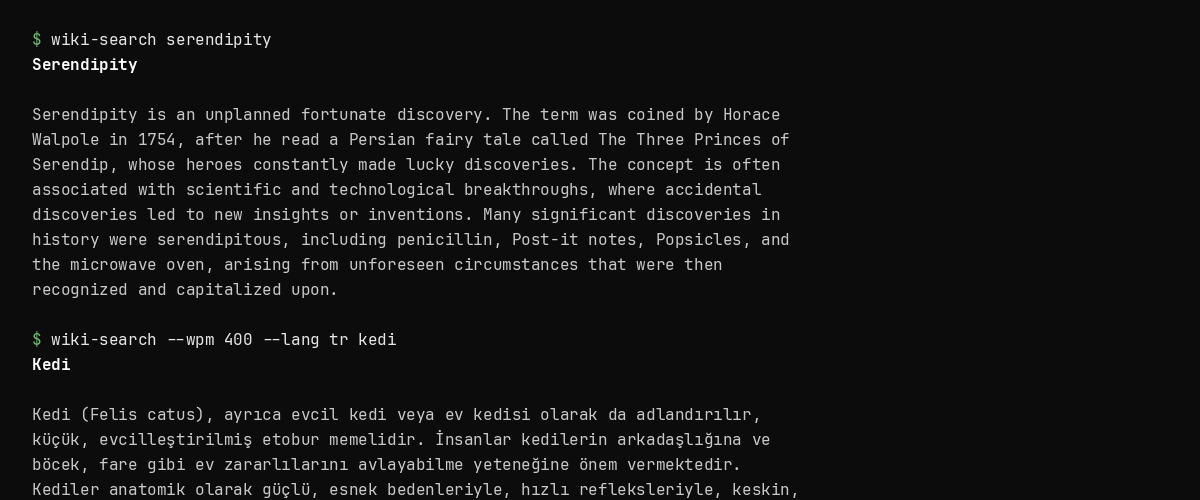
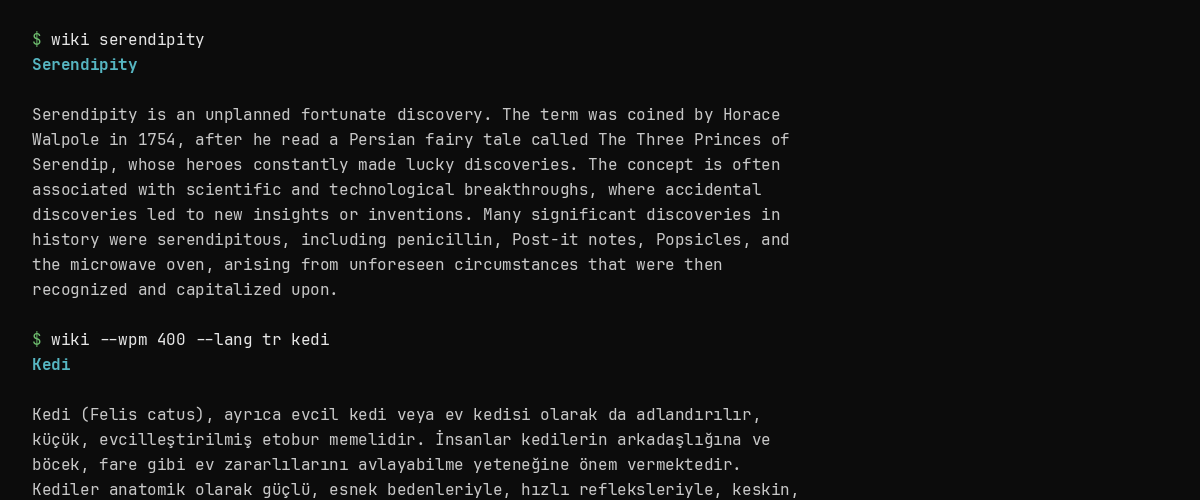
Rename project to wiki

diff --git a/src/sources.rs b/src/sources.rs
@@ -10,9 +10,9 @@ use serde_json::Value;
 
 const MAX_RESPONSE_BYTES: u64 = 16 * 1024 * 1024;
 const USER_AGENT: &str = concat!(
-    "wiki-search/",
+    "wiki/",
     env!("CARGO_PKG_VERSION"),
-    " (https://github.com/batusaribay/wiki-search)"
+    " (https://github.com/batusaribay/wiki)"
 );
 const ITSFOSS_HOME: &str = "https://itsfoss.com/";
 const WIKIHOW_SEARCH: &str = "https://www.wikihow.com/wikiHowTo?search=";
@@ -320,8 +320,8 @@ fn browser_html(url: &str) -> Result<String, String> {
         "wikiHow needs Chromium or Chrome installed (a headless browser gets past the site's bot check)",
     )?;
 
-    let profile = std::env::temp_dir().join(format!("wiki-search-chrome-{}", std::process::id()));
-    let output = std::env::temp_dir().join(format!("wiki-search-page-{}.html", std::process::id()));
+    let profile = std::env::temp_dir().join(format!("wiki-chrome-{}", std::process::id()));
+    let output = std::env::temp_dir().join(format!("wiki-page-{}.html", std::process::id()));
     let _ = fs::remove_dir_all(&profile);
 
     let file =

diff --git a/src/main.rs b/src/main.rs
@@ -21,9 +21,9 @@ struct Args {
 
 fn usage(code: i32) -> ! {
     let text = format!(
-        "A terminal browser for Wikipedia, It's FOSS, and wikiHow
+        "A wiki browser in the terminal
 
-usage: wiki-search [options] <query>
+usage: wiki [options] <query>
 
 options:
   -s, --source <name>  Source: wikipedia, itsfoss, or wikihow (default: wikipedia)
@@ -72,7 +72,7 @@ fn parse_args() -> Args {
         match flag.as_str() {
             "-h" | "--help" => usage(0),
             "-V" | "--version" => {
-                println!("wiki-search {}", env!("CARGO_PKG_VERSION"));
+                println!("wiki {}", env!("CARGO_PKG_VERSION"));
                 process::exit(0);
             }
             "-f" | "--full" => args.full = true,
@@ -204,7 +204,7 @@ fn main() {
             print_slowly(&sanitize(&article.text), args.wpm);
         }
         Err(message) => {
-            eprintln!("wiki-search: {message}");
+            eprintln!("wiki: {message}");
             process::exit(1);
         }
     }

diff --git a/README.md b/README.md
@@ -1,8 +1,8 @@
-# wiki-search
+# wiki
 
-A terminal browser for Wikipedia, It's FOSS, and wikiHow
+A wiki browser in the terminal
 
-![wiki-search in a terminal](preview.png)
+![wiki in a terminal](preview.png)
 
 ## What it is
 
@@ -50,25 +50,25 @@ The output is plain text with no colour, TUI, pager, or config file.
 
 | Command | Action |
 | --- | --- |
-| `wiki-search <query>` | Read the intro of the top Wikipedia result. |
-| `wiki-search --source itsfoss <query>` | Read the top It's FOSS result. |
-| `wiki-search --source wikihow <query>` | Read the top wikiHow result. |
-| `wiki-search --full <query>` | Read the whole Wikipedia article. |
-| `wiki-search --wpm 300 <query>` | Read faster or slower. |
-| `wiki-search --lang tr <query>` | Use another Wikipedia edition. |
-| `wiki-search --help` | Show the help text. |
-| `wiki-search --version` | Show the version. |
+| `wiki <query>` | Read the intro of the top Wikipedia result. |
+| `wiki --source itsfoss <query>` | Read the top It's FOSS result. |
+| `wiki --source wikihow <query>` | Read the top wikiHow result. |
+| `wiki --full <query>` | Read the whole Wikipedia article. |
+| `wiki --wpm 300 <query>` | Read faster or slower. |
+| `wiki --lang tr <query>` | Use another Wikipedia edition. |
+| `wiki --help` | Show the help text. |
+| `wiki --version` | Show the version. |
 
 ### Examples
 
 ```bash
-wiki-search rust programming language
-wiki-search --wpm 300 alan turing
-wiki-search --full history of the bicycle
-wiki-search --lang tr kedi
-wiki-search --source itsfoss linux mint
-wiki-search --source wikihow boil water
-COLUMNS=100 wiki-search serendipity
+wiki rust programming language
+wiki --wpm 300 alan turing
+wiki --full history of the bicycle
+wiki --lang tr kedi
+wiki --source itsfoss linux mint
+wiki --source wikihow boil water
+COLUMNS=100 wiki serendipity
 ```
 
 A query with no matching article exits with status `1` and prints the reason on
@@ -87,13 +87,13 @@ stderr.
 **Requirements:** Rust 1.88+, Git, and Chromium or Chrome for `--source wikihow`.
 
 ```bash
-cargo install --git https://github.com/batusaribay/wiki-search.git --locked
+cargo install --git https://github.com/batusaribay/wiki.git --locked
 ```
 
 ## Uninstall
 
 ```bash
-cargo uninstall wiki-search
+cargo uninstall wiki
 ```
 
 ## Security
